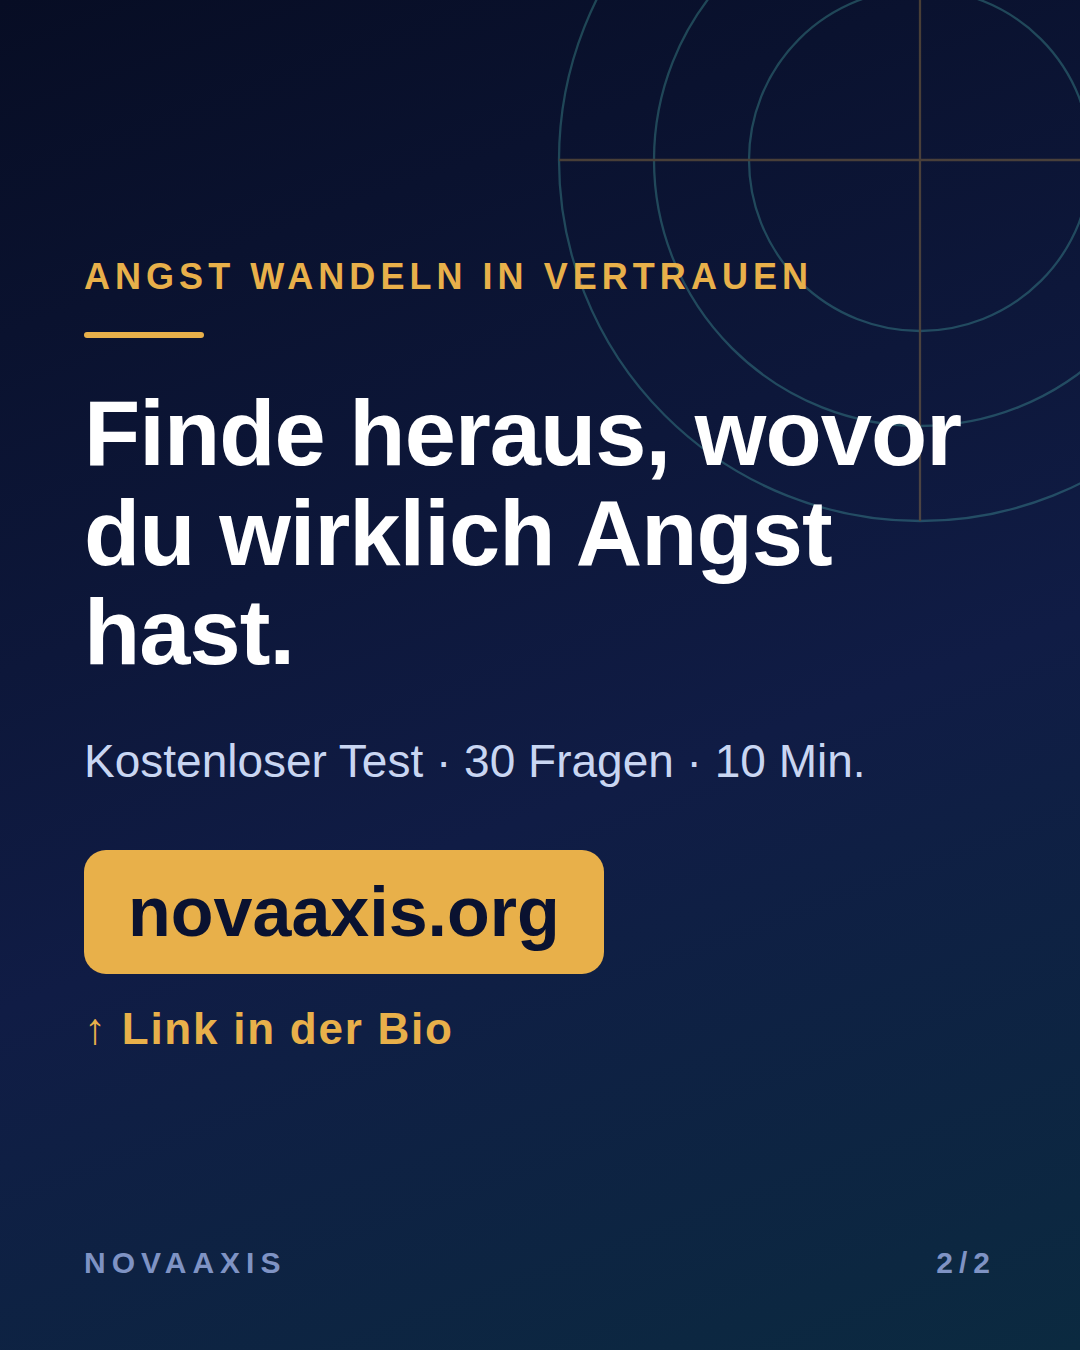
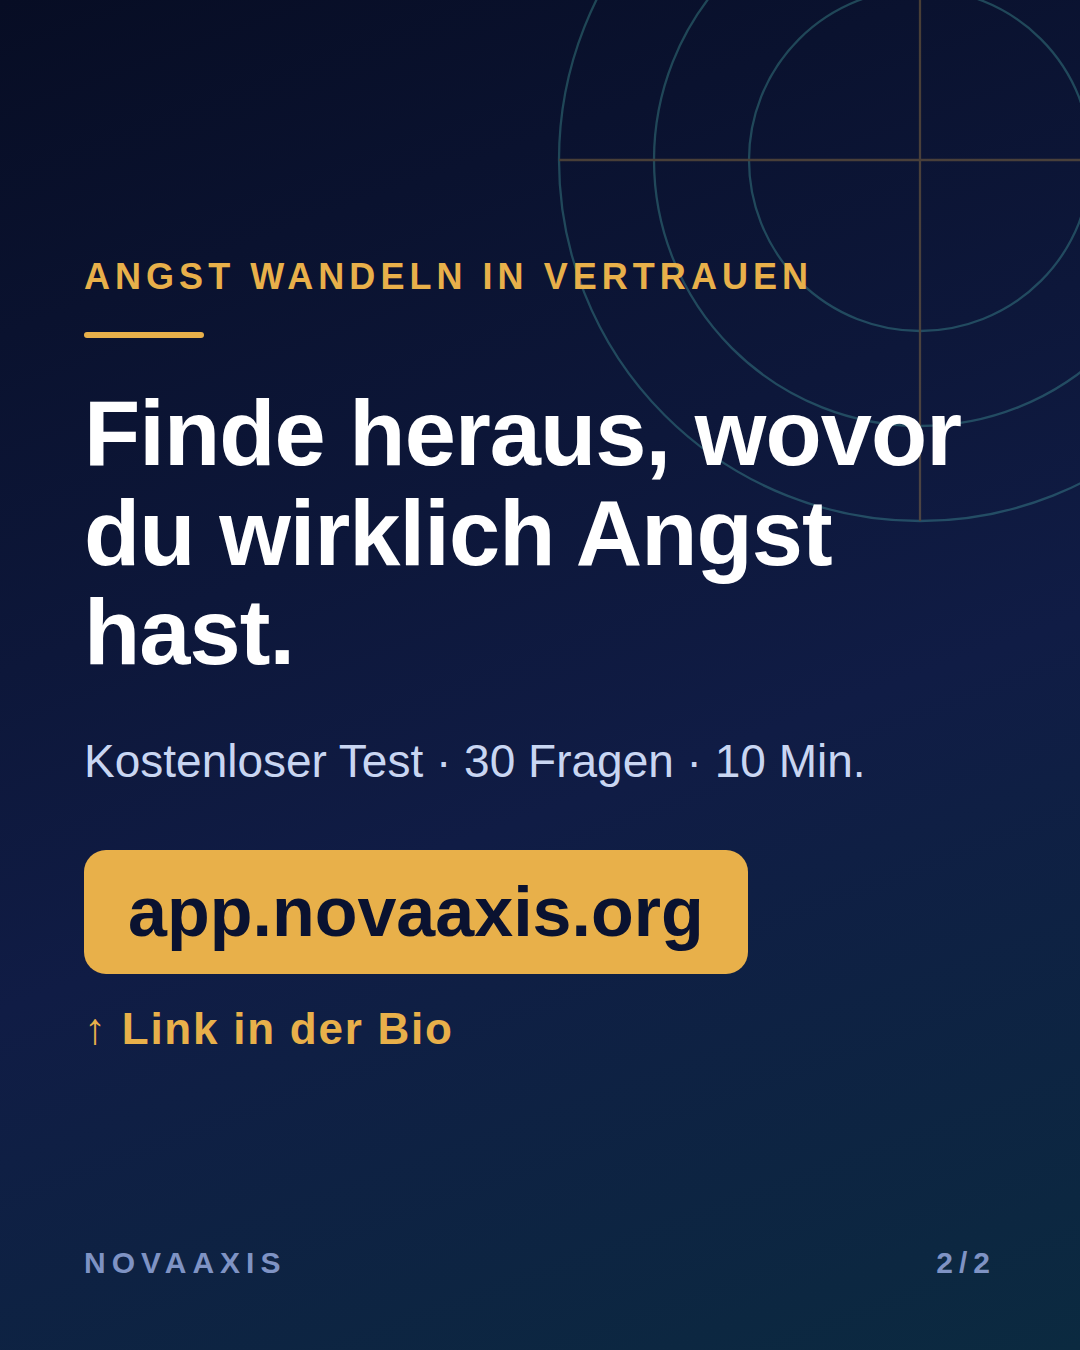
Use app.novaaxis.org as product link in all posts and slides
Claude-Session: https://claude.ai/code/session_01GRRMUmrf3ARTGo2MWhALQQ

Changed region(s): [[0.1222, 0.6222, 0.7028, 0.7467]]

diff --git a/novaaxis/social/LINKS.md b/novaaxis/social/LINKS.md
@@ -1,13 +1,13 @@
 # Produktlink – wo er klickbar ist und wo nicht
 
-**Produktlink:** https://www.novaaxis.org
-(Bitte die exakte Adresse der Test-Seite ergänzen, falls es eine direkte gibt, z. B. `…/test`. Ich habe keine Unterseite erfunden.)
+**Produktlink (bestätigt):** https://app.novaaxis.org/
+In Captions/Folien gekürzt als `app.novaaxis.org`. Die Haupt-Website `www.novaaxis.org` wird nicht mehr als Ziel genannt.
 
 ## Was auf TikTok/Instagram klickbar ist – und was nicht
 | Ort | Klickbar? | Was tun |
 |---|---|---|
 | **Link in der Bio** | **Ja** – der Hauptweg | Website-Link im Profil eintragen (TikTok: Profil bearbeiten → Website/Link; oft nur mit Business-Konto oder ab einer Follower-Zahl – in der App prüfen). Instagram: Profil bearbeiten → Links |
-| Caption / Beschreibung | Nein (nur Text) | URL trotzdem nennen: „novaaxis.org · Link in der Bio“ |
+| Caption / Beschreibung | Nein (nur Text) | URL trotzdem nennen: „app.novaaxis.org · Link in der Bio“ |
 | Angepinnter Kommentar | Nein | URL + „Schreib TEST“ |
 | **DM-Antwort auf „TEST“** | **Ja** | Link per Direktnachricht schicken |
 | Instagram-Story | **Ja** (Link-Sticker) | Nach jedem Reel eine Story mit Link-Sticker |
@@ -15,14 +15,14 @@
 | Bezahlte Anzeige (Spark Ads) mit Button | **Ja** | Optional, kostet Werbebudget – nur auf deinen Wunsch einrichten |
 
 ## Bio-Links mit Herkunft (zum Messen, in der Bio statt der nackten URL)
-- TikTok: `https://www.novaaxis.org/?utm_source=tiktok&utm_medium=bio`
-- Instagram: `https://www.novaaxis.org/?utm_source=instagram&utm_medium=bio`
-- YouTube: `https://www.novaaxis.org/?utm_source=youtube&utm_medium=description`
+- TikTok: `https://app.novaaxis.org/?utm_source=tiktok&utm_medium=bio`
+- Instagram: `https://app.novaaxis.org/?utm_source=instagram&utm_medium=bio`
+- YouTube: `https://app.novaaxis.org/?utm_source=youtube&utm_medium=description`
 Vorher einmal am Handy öffnen: Die Seite muss mit dem Zusatz normal laden.
 
 ## Regel für jedes Video und jede Folie
 1. **Letzte Folie / letzte 4 Sekunden:** URL groß + „Link in der Bio“.
 2. **Gesprochen:** „Der kostenlose Test: Link in meiner Bio.“
-3. **Erste Zeile der Caption:** „👉 Gratis-Test: novaaxis.org (Link in der Bio)“
+3. **Erste Zeile der Caption:** „👉 Gratis-Test: app.novaaxis.org (Link in der Bio)“
 4. **Angepinnter Kommentar:** URL + „Schreib TEST für den Link per Nachricht“.
 5. **Bio:** Link ist gesetzt und getestet (sonst bringen alle Posts nichts).

diff --git a/novaaxis/YOUTUBE_KANAL_EINSTELLUNGEN.md b/novaaxis/YOUTUBE_KANAL_EINSTELLUNGEN.md
@@ -11,21 +11,21 @@ Angst, Anspannung, Herzrasen – dein Körper sendet ein Signal. Hier lernst du,
 
 Kurze Übungen mit Qi Gong, Atmung und Körperwahrnehmung – alltagstauglich, ohne Vorkenntnisse.
 
-👉 Gratis starten: www.novaaxis.org
+👉 Gratis starten: app.novaaxis.org
 
 Über mich: Autor, Med. Qi Gong Trainer, ausgebildeter Osteopath, Fitness Trainer, Fachpraktiker für Wellness, Gesundheit und Prävention.
 
 Hinweis: Die Inhalte ersetzen keine ärztliche Diagnose oder Behandlung. Bei starken oder anhaltenden Beschwerden suche bitte ärztliche Hilfe.
 
 ## Links (Profil)
-1. Gratis starten → https://www.novaaxis.org
+1. Gratis starten → https://app.novaaxis.org/
 2. TikTok → (dein TikTok-Link, @NovaAxisWandel)
 
 ## Kanal-Keywords (Einstellungen → Kanal → Grundlegende Infos)
 Angst überwinden, Angst lösen, Qi Gong Anfänger, Atemübung Angst, Herzrasen Stress, Stress abbauen, Vertrauen aufbauen, Osteopath, NovaAxis
 
 ## Kanalbanner
-Text: „Angst im Körper lösen – Schritt für Schritt zu Vertrauen“ · novaaxis.org (sicherer Bereich in der Mitte, 1235 × 338 px)
+Text: „Angst im Körper lösen – Schritt für Schritt zu Vertrauen“ · app.novaaxis.org (sicherer Bereich in der Mitte, 1235 × 338 px)
 
 ## Land / Sprache
 Deutschland · Deutsch
@@ -35,4 +35,4 @@ Deutschland · Deutsch
 |---|---|---|
 | ojwK6MuQf2E | Qi Gong Shi Ba Shi – 18 Übungen gegen Stress und Anspannung | Qi Gong, Shi Ba Shi, Qi Gong Anfänger, Stress abbauen, Entspannung, NovaAxis |
 | uUCjhglEYD4 | Qi Gong 5 Elemente einfach erklärt – für Anfänger | Qi Gong 5 Elemente, Qi Gong Anfänger, Fünf Elemente, Entspannung, NovaAxis |
-Beschreibung für beide: Kurzer Nutzen-Satz + „Mehr Übungen gegen Angst und Anspannung: www.novaaxis.org“ + Arzt-Hinweis.
+Beschreibung für beide: Kurzer Nutzen-Satz + „Mehr Übungen gegen Angst und Anspannung: app.novaaxis.org“ + Arzt-Hinweis.

diff --git a/novaaxis/social/posts/03_geschichte_reel/POST.md b/novaaxis/social/posts/03_geschichte_reel/POST.md
@@ -1,10 +1,10 @@
 # Post 3 – Reel (ca. 25 s) · Reichweite
 **Quelle:** Erklärvideo, ca. **0:45 – 1:10** (Wer steckt hinter NovaAxis? + deine Ängste: Zukunft, KI, Jobverlust) – genau auf Satzende schneiden. Auf 9:16 zuschneiden, aufs Gesicht zoomen, Untertitel neu („NovaAxis“ richtig schreiben).
 **Hook-Text (erste 3 s):** Ich hatte Angst vor KI und Jobverlust.
-**Produktlink:** letzte 4 s „novaaxis.org · Link in der Bio“ + gesprochen „Den kostenlosen Test findest du in meiner Bio.“ (nachsprechen/einfügen)
+**Produktlink:** letzte 4 s „app.novaaxis.org · Link in der Bio“ + gesprochen „Den kostenlosen Test findest du in meiner Bio.“ (nachsprechen/einfügen)
 
 ## Caption
-👉 Gratis-Test: novaaxis.org (Link in der Bio)
+👉 Gratis-Test: app.novaaxis.org (Link in der Bio)
 Wer steckt hinter NovaAxis? Ich bin Michael. Das Programm „Angst wandeln in Vertrauen“ ist aus meiner eigenen Angst entstanden.
 Kennst du das? Schreib ANGST in die Kommentare. 🧭
 
@@ -12,4 +12,4 @@ Kennst du das? Schreib ANGST in die Kommentare. 🧭
 #angstwandeln #vertrauen #zukunftsangst #persönlichkeitsentwicklung #novaaxis
 
 ## Angepinnter Kommentar
-🧭 Kostenloser Test: novaaxis.org – oder schreib TEST für den Link per Nachricht.
+🧭 Kostenloser Test: app.novaaxis.org – oder schreib TEST für den Link per Nachricht.

diff --git a/novaaxis/social/posts/01_herzrasen_reel/POST.md b/novaaxis/social/posts/01_herzrasen_reel/POST.md
@@ -1,6 +1,6 @@
 # Post 1 – Reel (15 s) · Reichweite
 **Aufnahme:** du nah an der Kamera, Gesicht groß, 9:16 · **Hook-Banner:** Dein Herz rast – und der Arzt findet nichts?
-**Produktlink:** letzte 4 s Einblendung „novaaxis.org · Link in der Bio“
+**Produktlink:** letzte 4 s Einblendung „app.novaaxis.org · Link in der Bio“
 
 ## Skript
 0–3 s  „Dein Herz rast – und der Arzt findet nichts?“
@@ -9,7 +9,7 @@
 Untertitel: `reel_01.srt`
 
 ## Caption
-👉 Gratis-Test: novaaxis.org (Link in der Bio)
+👉 Gratis-Test: app.novaaxis.org (Link in der Bio)
 Dein Herz rast und der Arzt findet nichts? Dann kann Anspannung dahinterstecken.
 4 Sekunden ein, 6 Sekunden aus – drei Runden. ⚠ Herzrasen immer ärztlich abklären.
 💾 Speichern · 💬 TEST schreiben = Link per Nachricht
@@ -18,4 +18,4 @@ Dein Herz rast und der Arzt findet nichts? Dann kann Anspannung dahinterstecken.
 #angstüberwinden #herzrasen #stressabbauen #vertrauen #novaaxis
 
 ## Angepinnter Kommentar
-🧭 Kostenloser Angst-Test: novaaxis.org – oder schreib TEST, dann schicke ich dir den Link.
+🧭 Kostenloser Angst-Test: app.novaaxis.org – oder schreib TEST, dann schicke ich dir den Link.

diff --git a/novaaxis/social/posts/04_atemuebung_reel/POST.md b/novaaxis/social/posts/04_atemuebung_reel/POST.md
@@ -1,6 +1,6 @@
 # Post 4 – Reel (30 s) · Speichern
 **Aufnahme:** du sitzt aufrecht, nah an der Kamera · Zähler „1–4 / 1–6“ einblenden · **Hook-Banner:** 30 Sekunden gegen Anspannung
-**Produktlink:** letzte 4 s „Mehr Übungen: novaaxis.org · Link in der Bio“
+**Produktlink:** letzte 4 s „Mehr Übungen: app.novaaxis.org · Link in der Bio“
 
 ## Skript
 0–3 s   „Angst sitzt im Körper. 30 Sekunden gegen Anspannung.“
@@ -10,7 +10,7 @@
 Untertitel: `reel_04.srt`
 
 ## Caption
-👉 Mehr Übungen & Gratis-Test: novaaxis.org (Link in der Bio)
+👉 Mehr Übungen & Gratis-Test: app.novaaxis.org (Link in der Bio)
 30 Sekunden gegen Anspannung 🌿 Hand auf den Unterbauch, 4 Sekunden ein, 6 Sekunden aus, zwei Runden. Kein Ersatz für Behandlung.
 💾 Speichern, damit du es im Moment der Angst wiederfindest.
 
@@ -18,4 +18,4 @@ Untertitel: `reel_04.srt`
 #atemübung #angstlösen #qigong #entspannung #novaaxis
 
 ## Angepinnter Kommentar
-🧭 novaaxis.org · Schreib „fertig“ – wie fühlst du dich nach der Übung?
+🧭 app.novaaxis.org · Schreib „fertig“ – wie fühlst du dich nach der Übung?

diff --git a/novaaxis/social/posts/07_gratis_test_reel/POST.md b/novaaxis/social/posts/07_gratis_test_reel/POST.md
@@ -1,10 +1,10 @@
 # Post 7 – Reel (ca. 20 s) · CTA
 **Quelle:** Erklärvideo, ca. **2:27 – 2:47** (30-Fragen-Test, 10 Min., nur Vorname + E-Mail). Datenschutz-Teil (Abspringpunkt) weglassen. 9:16, Gesicht groß, Untertitel neu.
 **Hook-Text (erste 3 s):** 30 Fragen. 10 Minuten. Kostenlos.
-**Produktlink:** letzte 5 s groß „novaaxis.org · Link in der Bio“ + gesprochen „Link in meiner Bio.“
+**Produktlink:** letzte 5 s groß „app.novaaxis.org · Link in der Bio“ + gesprochen „Link in meiner Bio.“
 
 ## Caption
-👉 Gratis-Test: novaaxis.org (Link in der Bio)
+👉 Gratis-Test: app.novaaxis.org (Link in der Bio)
 30 Fragen, 10 Minuten, nur Vorname und E-Mail – dein persönliches Angst-Profil. Kostenlos, im Browser, ohne App.
 💬 Schreib TEST und ich schicke dir den Link.
 
@@ -12,4 +12,4 @@
 #angsttest #selbsterkenntnis #vertrauen #persönlichkeitsentwicklung #novaaxis
 
 ## Angepinnter Kommentar
-🧭 novaaxis.org · TEST = Link per Nachricht. Ich antworte auf jeden Kommentar. 💙
+🧭 app.novaaxis.org · TEST = Link per Nachricht. Ich antworte auf jeden Kommentar. 💙

diff --git a/novaaxis/social/posts/09_preis_reel/POST.md b/novaaxis/social/posts/09_preis_reel/POST.md
@@ -1,14 +1,14 @@
 # Post 9 – Reel (ca. 20 s) · Angebot
 **Quelle:** Erklärvideo, ca. **5:04 – 5:25** (Preis). 9:16, Preis groß: „499 €“, „199 €“, „49 €“ durchgestrichen → **9,99 €**
 **Hook-Text (erste 3 s):** Nicht 499 €. Nicht 199 €. Nur 9,99 €.
-**Produktlink:** letzte 5 s „Test gratis · novaaxis.org · Link in der Bio“
+**Produktlink:** letzte 5 s „Test gratis · app.novaaxis.org · Link in der Bio“
 
 ## Caption
-👉 Gratis-Test: novaaxis.org (Link in der Bio)
+👉 Gratis-Test: app.novaaxis.org (Link in der Bio)
 7-Tage-Programm „Angst wandeln in Vertrauen“: einmalig 9,99 €, lebenslanger Zugang, Online-Tagebuch im Browser. Test und Auswertung bleiben kostenlos.
 
 ## Hashtags
 #angstüberwinden #selbsthilfe #vertrauen #onlineprogramm #novaaxis
 
 ## Angepinnter Kommentar
-🧭 Erst der kostenlose Test: novaaxis.org · Schreib TEST für den Link per Nachricht.
+🧭 Erst der kostenlose Test: app.novaaxis.org · Schreib TEST für den Link per Nachricht.

diff --git a/novaaxis/social/posts/10_sieben_tage_reel/POST.md b/novaaxis/social/posts/10_sieben_tage_reel/POST.md
@@ -1,6 +1,6 @@
 # Post 10 – Reel (20 s) · Angebot
 **Aufnahme:** du nah an der Kamera · Einblendung „7 Tage · 1 Übung · Online-Tagebuch“ · **Hook-Banner:** 7 Tage. Eine neue Perspektive.
-**Produktlink:** letzte 5 s „novaaxis.org · Link in der Bio“
+**Produktlink:** letzte 5 s „app.novaaxis.org · Link in der Bio“
 
 ## Skript (nur Fakten aus deinem Erklärvideo)
 0–3 s   „Sieben Tage. Eine neue Perspektive.“
@@ -10,11 +10,11 @@
 Untertitel: `reel_10.srt`
 
 ## Caption
-👉 Gratis-Test: novaaxis.org (Link in der Bio)
+👉 Gratis-Test: app.novaaxis.org (Link in der Bio)
 7 Tage, jeden Tag eine einfache Übung, dazu ein Online-Tagebuch im Browser. Einmal 9,99 €, lebenslanger Zugang. Erst der Test – dann entscheidest du.
 
 ## Hashtags
 #angstwandeln #7tageprogramm #vertrauen #selbsthilfe #novaaxis
 
 ## Angepinnter Kommentar
-🧭 novaaxis.org · Schreib TEST für den Link per Nachricht.
+🧭 app.novaaxis.org · Schreib TEST für den Link per Nachricht.

diff --git a/novaaxis/social/README.md b/novaaxis/social/README.md
@@ -1,6 +1,6 @@
 # NovaAxis – TikTok + Instagram: alle 10 Posts (kurz, mit Produktlink)
 
-Ziel: Reichweite bei Fremden → Gratis-Test auf **novaaxis.org** → 7-Tage-Programm (9,99 €).
+Ziel: Reichweite bei Fremden → Gratis-Test auf **app.novaaxis.org** → 7-Tage-Programm (9,99 €).
 **Produktlink und wo er klickbar ist: `LINKS.md`** · Strategie: `../INSTAGRAM_10_POSTS.md`
 
 ## Was geändert wurde
@@ -40,5 +40,5 @@ Untertitel/Banner: `../../viral_caption_tool/make_viral_clip.py`
 ## Vor dem Start prüfen
 - **Bio-Link gesetzt und am Handy getestet** (Bio → Seite → Test → Anmeldung). Ohne ihn ist keine Folie klickbar.
 - Aussagen aus dem Erklärvideo stimmen (30 Fragen, max. 10 Min., nur Vorname + E-Mail; Abmeldung mit einem Klick; 9,99 € einmalig, lebenslanger Zugang).
-- Datenschutzerklärung + Einwilligung auf novaaxis.org.
+- Datenschutzerklärung + Einwilligung auf app.novaaxis.org.
 - Nachfass-Mail nach dem Test + Button zum Programm auf der Ergebnisseite.

diff --git a/novaaxis/README.md b/novaaxis/README.md
@@ -9,12 +9,12 @@
 | 0–6 s | Close-up, direkter Blick, harter Schnitt-Start | „Angst ist kein Feind. Sie ist ein Signal, das nur falsch gelesen wird." |
 | 6–14 s | Einblendungen „Benenne · Frag · Kleiner Schritt" | Die 3 Schritte, gesprochen als ein Atemzug |
 | 14–16,5 s | Ruhiger Schnitt | „Jeder Schritt baut Vertrauen auf." |
-| 16,5–21 s | **URL groß: novaaxis.org + „Link in der Bio"** | CTA: „Kostenloser Test: Link in meiner Bio." |
+| 16,5–21 s | **URL groß: app.novaaxis.org + „Link in der Bio"** | CTA: „Kostenloser Test: Link in meiner Bio." |
 
 Musik: ruhig-treibend, Lo-Fi/Ambient, Lautstärke ~15 %. Aufnahme: Tageslicht, Hochformat 9:16.
 
 ## Caption
-👉 Gratis-Test: novaaxis.org (Link in der Bio)
+👉 Gratis-Test: app.novaaxis.org (Link in der Bio)
 Angst ist kein Stoppschild – sie ist ein Hinweis. 🌱
 Benenne sie. Frag sie, was sie schützen will. Geh einen kleinen Schritt.
 So wird aus Angst Schritt für Schritt Vertrauen.

diff --git a/novaaxis/README_tr.md b/novaaxis/README_tr.md
@@ -4,7 +4,7 @@
 **Handle:** `@novaaxis`
 
 ## Caption
-👉 Ücretsiz test: novaaxis.org (biyografideki link)
+👉 Ücretsiz test: app.novaaxis.org (biyografideki link)
 Korku bir dur levhası değil, bir işaret. 🌱
 Adını koy. Neyi korumak istediğini sor. Küçük bir adım at.
 Böylece korku, adım adım güvene dönüşür.
@@ -24,4 +24,4 @@ python3 make_viral_clip.py --video video.mp4 \
 ```
 Not: Metin tedavi vaadi içermez. Yoğun kaygıda profesyonel destek önerilir.
 
-**Wichtig:** novaaxis.org ist auf Deutsch. Türkische Zuschauer landen auf einer deutschen Seite – nur sinnvoll, wenn die Zielgruppe Deutsch versteht oder es eine türkische Version gibt.
+**Wichtig:** app.novaaxis.org ist auf Deutsch. Türkische Zuschauer landen auf einer deutschen Seite – nur sinnvoll, wenn die Zielgruppe Deutsch versteht oder es eine türkische Version gibt.
